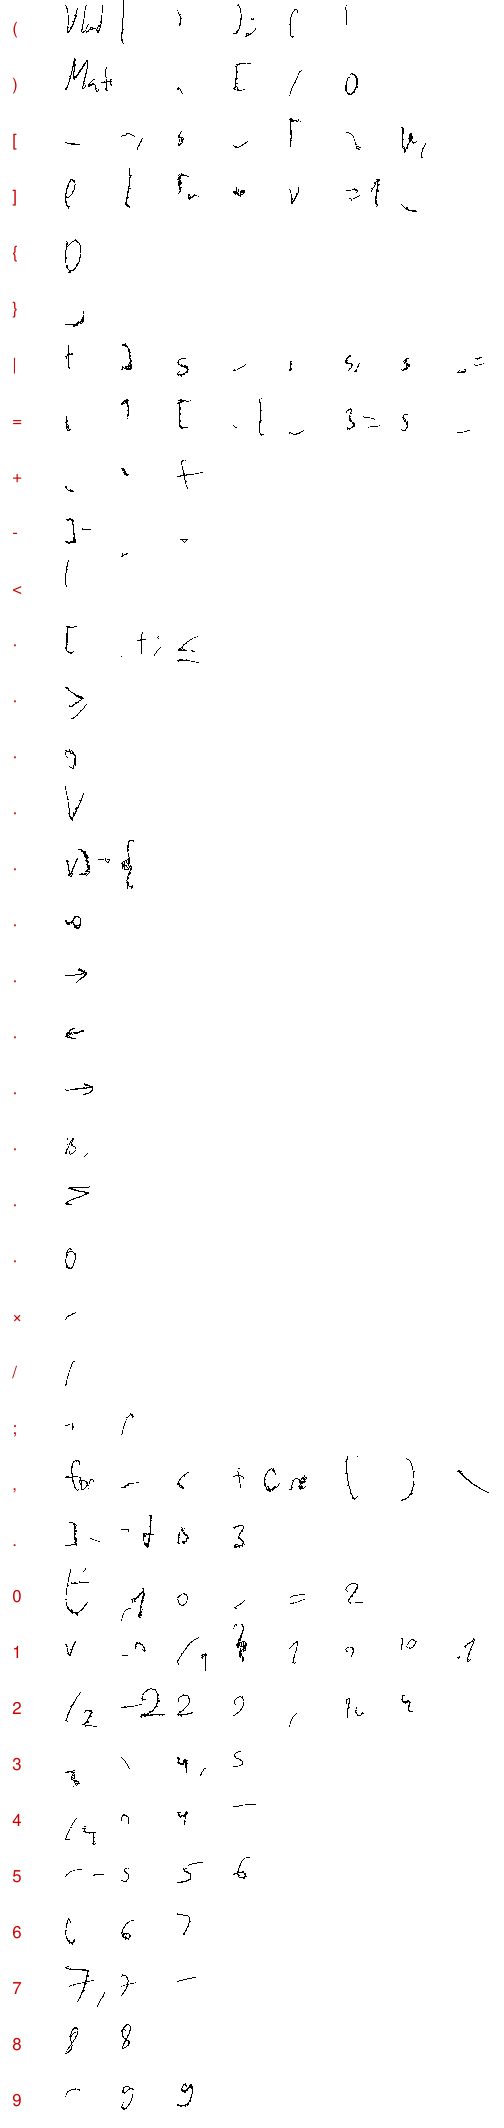
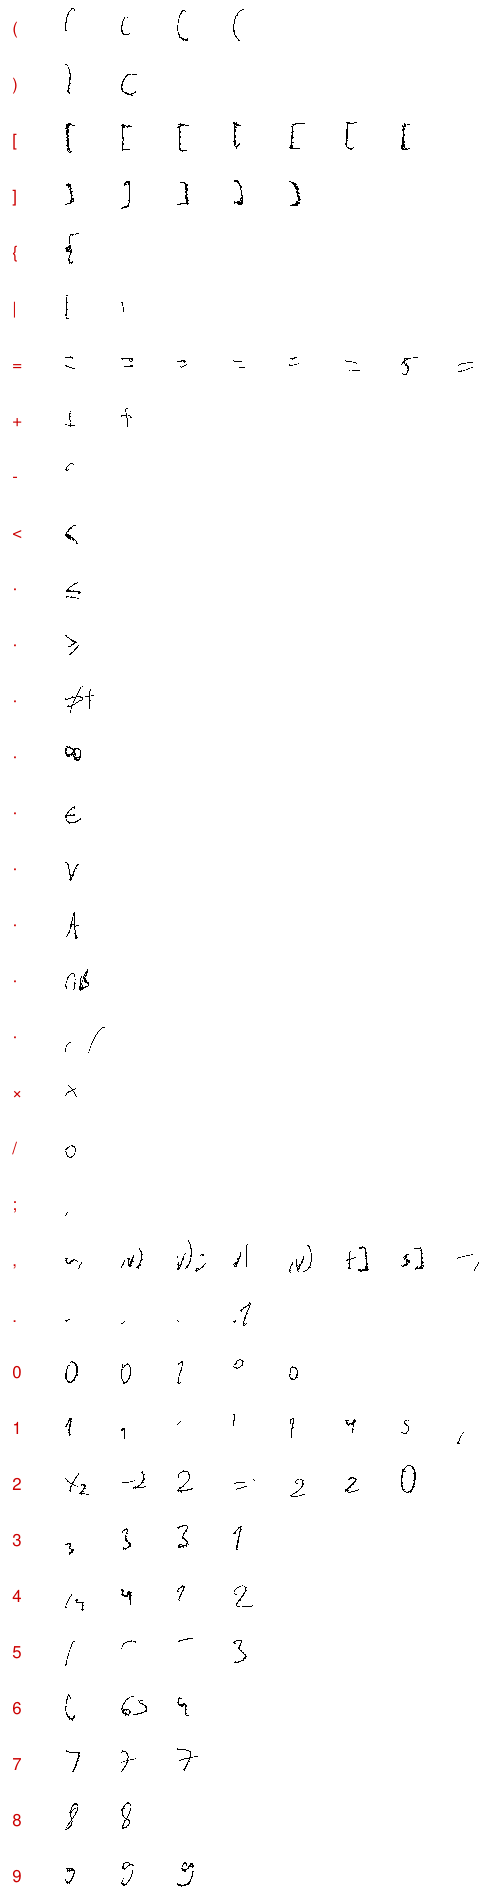
Token-level symbol harvesting with fuzzy line pairing; brackets, operators, digits usable

diff --git a/inkclone/symbols.py b/inkclone/symbols.py
@@ -35,36 +35,93 @@ def flatten_source(line):
     return t
 
 
+def pair_lines(groups, strokes, ocr_words, source_lines, min_sim=0.3):
+    """Monotonic alignment of handwritten line groups to source lines using the OCR letters in each band."""
+    import difflib
+    def band_text(ids):
+        ys = np.concatenate([strokes[i][:, 1] for i in ids]); y0, y1 = ys.min(), ys.max()
+        ws = [w["text"] for w in ocr_words if y0 <= (w["bbox"][1] + w["bbox"][3]) / 2 <= y1]
+        return re.sub(r"[^a-z0-9]", "", " ".join(ws).lower())
+    gt = [band_text(g) for g in groups]; st = [re.sub(r"[^a-z0-9]", "", l.replace("_", "").replace("^", "").lower()) for l in source_lines]
+    n, m = len(groups), len(source_lines); gap = -0.2
+    S = np.full((n + 1, m + 1), -1e9); S[0, :] = np.arange(m + 1) * gap; S[:, 0] = np.arange(n + 1) * gap; B = {}
+    for i in range(1, n + 1):
+        for j in range(1, m + 1):
+            sim = difflib.SequenceMatcher(None, gt[i-1], st[j-1]).ratio() if gt[i-1] and st[j-1] else 0.0
+            opts = [(S[i-1, j] + gap, "g"), (S[i, j-1] + gap, "s")]
+            if sim >= min_sim: opts.append((S[i-1, j-1] + sim, "m"))
+            S[i, j], B[i, j] = max(opts)
+    i, j, pairs = n, m, []
+    while i > 0 and j > 0:
+        mv = B[i, j]
+        if mv == "m": pairs.append((groups[i-1], source_lines[j-1])); i -= 1; j -= 1
+        elif mv == "g": i -= 1
+        else: j -= 1
+    return pairs[::-1]
+
+
 def harvest(page, source_lines, templates, prior):
     strokes = page["strokes"]; groups = line_groups(strokes)
     out = collections.defaultdict(list); frames = []
-    # pair handwritten lines with source lines from the bottom up (the symbol block is last on the page)
-    pairs = list(zip(groups[-len(source_lines):], source_lines))
+    pairs = pair_lines(groups, strokes, page["words"], source_lines)
     for ids, src in pairs:
-        text = flatten_source(src); ls = [strokes[i] for i in ids]
-        allp = np.vstack([s[:, :2] for s in ls]); h = allp[:, 1].max() - allp[:, 1].min()
-        # rough frame: baseline at 75th percentile of y, x-height from line height / 2.4
+        ls = [strokes[i] for i in ids]
+        allp = np.vstack([s_[:, :2] for s_ in ls]); h = allp[:, 1].max() - allp[:, 1].min()
         baseline = np.percentile(allp[:, 1], 75); xh = max(2.0, h / 2.6)
+        # ink clusters along x: strokes whose x-ranges are within a small gap of each other
+        order = sorted(range(len(ls)), key=lambda k: ls[k][:, 0].min()); clusters, cur, cur_x1 = [], [], None
+        for k in order:
+            x0, x1 = ls[k][:, 0].min(), ls[k][:, 0].max()
+            if cur and x0 - cur_x1 > 0.45 * xh: clusters.append(cur); cur = []
+            cur.append(k); cur_x1 = max(cur_x1, x1) if cur_x1 is not None and cur else x1
+            cur_x1 = max(cur_x1, x1)
+        clusters.append(cur)
+        tokens = [flatten_source(t) for t in src.split()]
+        # align clusters to tokens by sequence: cost = relative width mismatch, with skips
         pri = dict(prior)
-        for c in text:
+        for c in "".join(tokens):
             if not c.isalnum(): pri.setdefault(c, 1.8 if c in WIDE_SYM else 0.5 if c in NARROW_SYM else 1.0)
-        seg = recut_word(ls, text, pri, templates, baseline, xh, max_b=max(60, 3 * len(text)))
-        if seg is None: continue
-        # refine frame from lowercase letters, then normalise instances
-        xs_pts = [np.vstack([ls[i][i0:i1, :2] for i, i0, i1 in ch["pieces"]]) for ch in seg]
-        base_c = [np.percentile(p[:, 1], 92) for ch, p in zip(seg, xs_pts) if ch["char"] in XHEIGHT_LETTERS]
-        top_c = [np.percentile(p[:, 1], 8) for ch, p in zip(seg, xs_pts) if ch["char"] in XHEIGHT_LETTERS]
-        if len(base_c) >= 3: baseline = float(np.median(base_c)); xh = max(2.0, baseline - float(np.median(top_c)))
-        frames.append((src, baseline, xh, len(seg)))
-        for ch in seg:
-            c = ch["char"]
-            if c.isalpha(): continue
-            pieces = [ls[i][i0:i1].copy() for i, i0, i1 in ch["pieces"]]
-            px = min(p[:, 0].min() for p in pieces)
-            norm = [np.column_stack([(p[:, 0] - px) / xh, (p[:, 1] - baseline) / xh, p[:, 2]]) for p in pieces]
-            allq = np.vstack([p[:, :2] for p in norm])
-            out[c].append({"text": c, "pieces": norm, "width": allq[:, 0].max(), "height": allq[:, 1].max() - allq[:, 1].min(),
-                           "src": ("capitals_sheet", src), "joined_prev": ch["joined_prev"], "joined_next": ch["joined_next"]})
+        tw = np.array([sum(pri.get(c, 1.0) for c in t) for t in tokens]); cw = np.array([max(ls[k][:, 0].max() for k in cl) - min(ls[k][:, 0].min() for k in cl) for cl in clusters])
+        unit = cw.sum() / tw.sum()
+        n, m = len(clusters), len(tokens); S = np.full((n + 1, m + 1), 1e9); S[0, 0] = 0; Bk = {}
+        for i in range(0, n + 1):
+            for j in range(0, m + 1):
+                if i == 0 and j == 0: continue
+                opts = []
+                if i > 0: opts.append((S[i-1, j] + 1.5, "g"))
+                if j > 0: opts.append((S[i, j-1] + 1.5, "s"))
+                if i > 0 and j > 0: opts.append((S[i-1, j-1] + abs(cw[i-1] - tw[j-1] * unit) / (unit * max(tw[j-1], 0.5)), "m"))
+                if i > 1 and j > 0:  # two clusters -> one token (a token with an internal gap)
+                    w2 = max(ls[k][:, 0].max() for k in clusters[i-1] + clusters[i-2]) - min(ls[k][:, 0].min() for k in clusters[i-1] + clusters[i-2])
+                    opts.append((S[i-2, j-1] + 0.3 + abs(w2 - tw[j-1] * unit) / (unit * max(tw[j-1], 0.5)), "m2"))
+                S[i, j], Bk[i, j] = min(opts)
+        i, j, matched = n, m, []
+        while i > 0 or j > 0:
+            mv = Bk.get((i, j), "g" if i > 0 else "s")
+            if mv == "m": matched.append((clusters[i-1], tokens[j-1])); i -= 1; j -= 1
+            elif mv == "m2": matched.append((clusters[i-2] + clusters[i-1], tokens[j-1])); i -= 2; j -= 1
+            elif mv == "g": i -= 1
+            else: j -= 1
+        matched = matched[::-1]
+        # x-height from lowercase letters among single-letter tokens, if any
+        frames.append((src, baseline, xh, len(matched), m))
+        for cl, tok in matched:
+            tls = [ls[k] for k in cl]
+            if len(tok) == 1:
+                seg = [{"char": tok, "pieces": [(k, 0, len(tls[k])) for k in range(len(tls))], "joined_prev": False, "joined_next": False}]
+            else:
+                seg = recut_word(tls, tok, pri, templates, baseline, xh, max_b=max(40, 6 * len(tok)))
+                if seg is None: continue
+            for ch in seg:
+                c = ch["char"]
+                if c.isalpha(): continue
+                pieces = [tls[i][i0:i1].copy() for i, i0, i1 in ch["pieces"]]
+                px = min(p_[:, 0].min() for p_ in pieces)
+                norm = [np.column_stack([(p_[:, 0] - px) / xh, (p_[:, 1] - baseline) / xh, p_[:, 2]]) for p_ in pieces]
+                allq = np.vstack([p_[:, :2] for p_ in norm])
+                out[c].append({"text": c, "pieces": norm, "width": allq[:, 0].max(), "height": allq[:, 1].max() - allq[:, 1].min(),
+                               "src": ("capitals_sheet", src, tok), "single": len(tok) == 1,
+                               "joined_prev": ch["joined_prev"], "joined_next": ch["joined_next"]})
     return dict(out), frames
 
 
@@ -75,6 +132,6 @@ if __name__ == "__main__":
     units = pickle.load(open("data/derived/units.pkl", "rb")); seg = pickle.load(open("data/derived/segments.pkl", "rb"))
     templates = build_templates(units["letters"])
     S, frames = harvest(pages[1], sym_lines, templates, seg["prior"])
-    for f in frames: print(f"  line ok: {f[0][:40]:40s} xh={f[2]:.1f} chars={f[3]}")
+    for f in frames: print(f"  line: {f[0][:44]:44s} tokens matched {f[3]}/{f[4]}")
     pickle.dump(S, open("data/derived/symbols.pkl", "wb"))
     print("symbol instances:", {k: len(v) for k, v in sorted(S.items())})

diff --git a/reports/2026-10-06-feasibility.md b/reports/2026-10-06-feasibility.md
@@ -38,3 +38,8 @@ Open question: target documents are math or prose? Math needs its own layout + s
 - `compare_line_v7.png`: whole-word lines good except occasional mislabeled word instances (an OCR "the" that is really "that"). Assembled words still inconsistent word to word.
 - Template scoring of every unit (letters: 2nd-nearest template distance; words and chunks: mean letter score). Drop worst 15% of word instances (1355 -> 1166) and 219 chunks. Quality-weighted sampling in Synth2 (softmax over score, never argmin, so variation stays).
 - `compare_line_v9.png`: "Shortest Paths with Few Steps", "Bellman Ford, stop when a round", "No change round means fixed point, so stopping early is safe" all readable and in the writer's hand. Still weak: "changes", "nothing" (chunk 'ng' from a poor source).
+
+## Symbols (loop tick, ~18:40)
+
+- `inkclone/symbols.py`: pairs handwritten lines to source lines by fuzzy match on OCR letters+digits (the writer skipped one source line, so positional pairing was off by one), then aligns ink clusters to space-separated tokens, and only cuts inside multi-char tokens.
+- Result (`reports/symbols_grid.png`): `[ ] ( ) = + < ≤ ≥ ∞ ∈` and digits mostly clean; 7/8/9 perfect. Commas and the single-instance set symbols (← ∪ ∩ ∅) unreliable. Enough for a first homework page; a second short symbol line or two would fix the rest.
